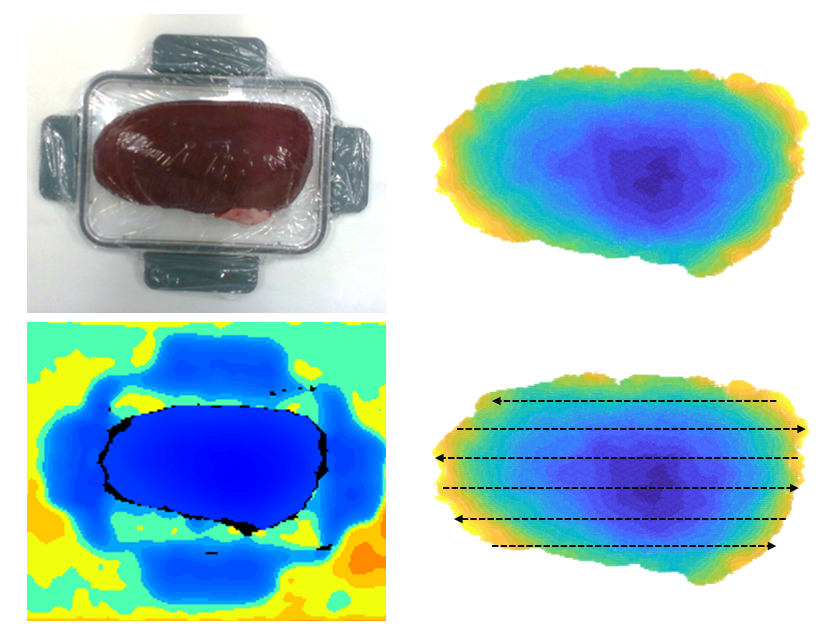
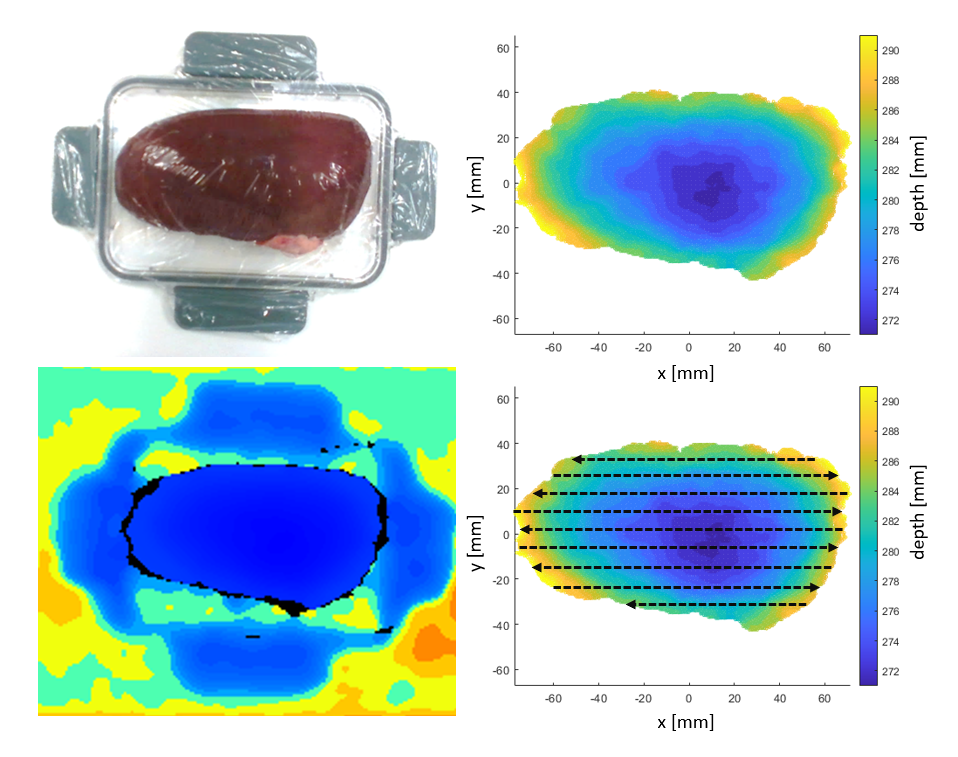
delete unused data

diff --git a/DataManagerOCT.m b/DataManagerOCT.m
@@ -15,33 +15,20 @@ oct_data = ...
     '10-Sep-2021_BScan{cuboid4}.mat', ...           % 5
     '10-Sep-2021_BScan{cuboid5}.mat', ...           % 6
     '10-Sep-2021_BScan{cuboid6}.mat', ...           % 7
-    '12-Sep-2021_BScan{cuboid1}.mat', ...           % 8
-    '12-Sep-2021_BScan{cuboid2}.mat', ...           % 9
-    '12-Sep-2021_BScan{cuboid3}.mat', ...           % 10
-    '12-Sep-2021_BScan{cuboid4}.mat', ...           % 11
-    '12-Sep-2021_BScan{cuboid5}.mat', ...           % 12
-    '14-Sep-2021_BScan{letters1}.mat', ...          % 13
-    '14-Sep-2021_BScan{letters2}.mat', ...          % 14
-    '14-Sep-2021_BScan{letters3}.mat', ...          % 15
-    '15-Sep-2021_BScan{letters1}.mat', ...          % 16
-    '15-Sep-2021_BScan{letters2}.mat', ...          % 17
-    '15-Sep-2021_BScan{letters3}.mat', ...          % 18
-    '16-Sep-2021_BScan{exvivo1}.mat', ...           % 19
-    '16-Sep-2021_BScan{exvivo2}.mat', ...           % 20
-    '16-Sep-2021_BScan{exvivo3}.mat', ...           % 21
-    '16-Sep-2021_BScan{exvivo4}.mat', ...           % 22
-    '16-Sep-2021_BScan{exvivo5}.mat', ...           % 23
-    '16-Sep-2021_BScan{exvivo6}.mat', ...           % 24
-    '22-Sep-2021_BScan{exvivo1-1}.mat', ...           % 25
-    '22-Sep-2021_BScan{exvivo2-1}.mat', ...           % 26
-    '22-Sep-2021_BScan{exvivo3-1}.mat', ...           % 27
-    '22-Sep-2021_BScan{exvivo4-1}.mat', ...           % 28
-    '22-Sep-2021_BScan{exvivo5-1}.mat', ...           % 29
-    '22-Sep-2021_BScan{exvivo1}.mat', ...           % 30
-    '22-Sep-2021_BScan{exvivo2}.mat', ...           % 31
-    '22-Sep-2021_BScan{exvivo3}.mat', ...           % 32
-    '22-Sep-2021_BScan{exvivo4}.mat', ...           % 33
-    '22-Sep-2021_BScan{exvivo5}.mat', ...           % 34
+    '15-Sep-2021_BScan{letters1}.mat', ...          % 8
+    '15-Sep-2021_BScan{letters2}.mat', ...          % 9
+    '15-Sep-2021_BScan{letters3}.mat', ...          % 10
+    '16-Sep-2021_BScan{exvivo1}.mat', ...           % 11
+    '16-Sep-2021_BScan{exvivo2}.mat', ...           % 12
+    '16-Sep-2021_BScan{exvivo3}.mat', ...           % 13
+    '16-Sep-2021_BScan{exvivo4}.mat', ...           % 14
+    '16-Sep-2021_BScan{exvivo5}.mat', ...           % 15
+    '16-Sep-2021_BScan{exvivo6}.mat', ...           % 16
+    '22-Sep-2021_BScan{exvivo1}.mat', ...           % 17
+    '22-Sep-2021_BScan{exvivo2}.mat', ...           % 18
+    '22-Sep-2021_BScan{exvivo3}.mat', ...           % 19
+    '22-Sep-2021_BScan{exvivo4}.mat', ...           % 20
+    '22-Sep-2021_BScan{exvivo5}.mat', ...           % 21
 };
 
 pose_data = ...
@@ -53,33 +40,20 @@ pose_data = ...
     '10-Sep-2021_franka_pose{cuboid4}.mat', ...     % 5
     '10-Sep-2021_franka_pose{cuboid5}.mat', ...     % 6
     '10-Sep-2021_franka_pose{cuboid6}.mat', ...     % 7
-    '12-Sep-2021_franka_pose{cuboid1}.mat', ...     % 8
-    '12-Sep-2021_franka_pose{cuboid2}.mat', ...     % 9
-    '12-Sep-2021_franka_pose{cuboid3}.mat', ...     % 10
-    '12-Sep-2021_franka_pose{cuboid4}.mat', ...     % 11
-    '12-Sep-2021_franka_pose{cuboid5}.mat', ...     % 12
-    '14-Sep-2021_franka_pose{letters1}.mat', ...    % 13
-    '14-Sep-2021_franka_pose{letters2}.mat', ...    % 14
-    '14-Sep-2021_franka_pose{letters3}.mat', ...    % 15
-    '15-Sep-2021_franka_pose{letters1}.mat', ...    % 16
-    '15-Sep-2021_franka_pose{letters2}.mat', ...    % 17
-    '15-Sep-2021_franka_pose{letters3}.mat', ...    % 18
-    '16-Sep-2021_franka_pose{exvivo1}.mat', ...     % 19
-    '16-Sep-2021_franka_pose{exvivo2}.mat', ...     % 20
-    '16-Sep-2021_franka_pose{exvivo3}.mat', ...     % 21
-    '16-Sep-2021_franka_pose{exvivo4}.mat', ...     % 22
-    '16-Sep-2021_franka_pose{exvivo5}.mat', ...     % 23
-    '16-Sep-2021_franka_pose{exvivo6}.mat', ...     % 24
-    '22-Sep-2021_franka_pose{exvivo1-1}.mat', ...     % 25
-    '22-Sep-2021_franka_pose{exvivo2-1}.mat', ...     % 26
-    '22-Sep-2021_franka_pose{exvivo3-1}.mat', ...     % 27
-    '22-Sep-2021_franka_pose{exvivo4-1}.mat', ...     % 28
-    '22-Sep-2021_franka_pose{exvivo5-1}.mat', ...     % 29
-    '22-Sep-2021_franka_pose{exvivo1}.mat', ...     % 30
-    '22-Sep-2021_franka_pose{exvivo2}.mat', ...     % 31
-    '22-Sep-2021_franka_pose{exvivo3}.mat', ...     % 32
-    '22-Sep-2021_franka_pose{exvivo4}.mat', ...     % 33
-    '22-Sep-2021_franka_pose{exvivo5}.mat', ...     % 34
+    '15-Sep-2021_franka_pose{letters1}.mat', ...    % 8
+    '15-Sep-2021_franka_pose{letters2}.mat', ...    % 9
+    '15-Sep-2021_franka_pose{letters3}.mat', ...    % 10
+    '16-Sep-2021_franka_pose{exvivo1}.mat', ...     % 11
+    '16-Sep-2021_franka_pose{exvivo2}.mat', ...     % 12
+    '16-Sep-2021_franka_pose{exvivo3}.mat', ...     % 13
+    '16-Sep-2021_franka_pose{exvivo4}.mat', ...     % 14
+    '16-Sep-2021_franka_pose{exvivo5}.mat', ...     % 15
+    '16-Sep-2021_franka_pose{exvivo6}.mat', ...     % 16
+    '22-Sep-2021_franka_pose{exvivo1}.mat', ...     % 17
+    '22-Sep-2021_franka_pose{exvivo2}.mat', ...     % 18
+    '22-Sep-2021_franka_pose{exvivo3}.mat', ...     % 19
+    '22-Sep-2021_franka_pose{exvivo4}.mat', ...     % 20
+    '22-Sep-2021_franka_pose{exvivo5}.mat', ...     % 21
 };
 
 fprintf('loading %s ... \n',oct_data{data_id});

diff --git a/read_rosbag_pointcloud.m b/read_rosbag_pointcloud.m
@@ -3,11 +3,9 @@
 % author: Xihan Ma
 % description: visualize camera pointcloud from rosbag file
 %%%%%%%%%%%%%%%%%%%%%%%%%%%%%%%%%%%%%%%%%%%%%%%%%%%%%%%%%%%%%%%%%%%%%%%%%%%
-%%
 clc; clear; close all
 
 bagfile = rosbag('../data/2021-09-27-22-56-08.bag');
-
 pcloud_topic = select(bagfile,'Topic','camera/depth/color/points');
 pcloud_msg = readMessages(pcloud_topic);
 pcloud_msg = pcloud_msg{1};
@@ -20,7 +18,6 @@ xyz(row2disc,:) = [];
 rgb(row2disc,:) = [];
 
 %% vis
-figure
 pntcloud = pointCloud(-xyz,'Color',rgb);
 % pntcloud = pcdenoise(pntcloud);                 % denoise
 % pntcloud = pcdownsample(pntcloud,'random',0.9);
@@ -36,5 +33,9 @@ set(gca,'color','w','XColor',[0.15 0.15 0.15],'YColor',[0.15 0.15 0.15],'ZColor'
 view(0,90)
 
 figure
-scatter(xyz(:,1),xyz(:,2),repmat(5,1,length(xyz)),xyz(:,3))
-axis equal off
+scatter(xyz(:,1).*1e3,-xyz(:,2).*1e3,repmat(5,1,length(xyz)),xyz(:,3).*1e3)
+xlabel('x [mm]'); ylabel('y [mm]')
+cb = colorbar();
+cb.Label.String = 'depth [mm]'; cb.Label.FontSize = 12;
+axis equal 
+% axis off

diff --git a/OCT3D_depth_encoding.m b/OCT3D_depth_encoding.m
@@ -6,7 +6,7 @@
 clc; clear; close all
 isGenVid = false;
 % load BScan & pose data
-data2load = 30:34;
+data2load = 8:10;
 [data, data_sizes] = DataManagerOCT(data2load); 
 
 %% extract first peak from AScan
@@ -69,18 +69,6 @@ for item = 1:size(data.OCT,3)
 end
 pc_x = single(pc_x); pc_y = single(pc_y); pc_z = single(pc_z);
 fprintf('processing data took %f sec \n', toc);
-
-%% average depth in the overlapping area
-% overlap_ind1 = find(pc_y>-3.60e-3 & pc_y<-3.55e-3);
-% overlap_ind2 = find(pc_y>-8.50e-3 & pc_y<-8.45e-3);
-% overlap_ind3 = find(pc_y>-14.60e-3 & pc_y<-14.55e-3);
-% overlap_ind4 = find(pc_y>-20.80e-3 & pc_y<-20.75e-3);
-% overlap_ind5 = find(pc_y>-26.60e-3 & pc_y<-26.55e-3);
-% pc_z(overlap_ind1) = mean(pc_z(overlap_ind1)); 
-% pc_z(overlap_ind2) = mean(pc_z(overlap_ind2));
-% pc_z(overlap_ind3) = mean(pc_z(overlap_ind3));
-% pc_z(overlap_ind4) = mean(pc_z(overlap_ind4));
-% pc_z(overlap_ind5) = mean(pc_z(overlap_ind5));
 
 %% visualize 2D depth encoding
 figure('Position',[500,120,1000,600])

diff --git a/CompCalibErr.m b/CompCalibErr.m
@@ -9,7 +9,7 @@ function T_flange_probe_new = CompCalibErr(T_flange_probe)
 rpy_flange_probe = rotm2eul(T_flange_probe(1:3,1:3));
 
 % compensate rotation
-rpy_flange_probe(1) = rpy_flange_probe(1) + 0.005;     % rotz
+rpy_flange_probe(1) = rpy_flange_probe(1) + 0.025;     % rotz
 rpy_flange_probe(2) = rpy_flange_probe(2) + 0.0;        % roty
 rpy_flange_probe(3) = rpy_flange_probe(3) + 0.048;      % rotx
 R_flange_probe_new = eul2rotm(rpy_flange_probe);

diff --git a/camera_view_scan_path.m b/camera_view_scan_path.m
@@ -5,7 +5,7 @@
 %%%%%%%%%%%%%%%%%%%%%%%%%%%%%%%%%%%%%%%%%%%%%%%%%%%%%%%%%%%%%%%%%%%%%%%%%%%
 clc; clear; close all
 % load BScan & pose data
-data2load = 30:34;
+data2load = 17:21;
 [data, data_sizes] = DataManagerOCT(data2load); 
 
 %% visualization

diff --git a/OCT3D_pointcloud.m b/OCT3D_pointcloud.m
@@ -6,7 +6,7 @@
 clc; clear; close all
 isGenVid = false;
 % load BScan & pose data
-data2load = 25:29;
+data2load = 8:10;
 [data, data_sizes] = DataManagerOCT(data2load);
 
 %% generate pointcloud
